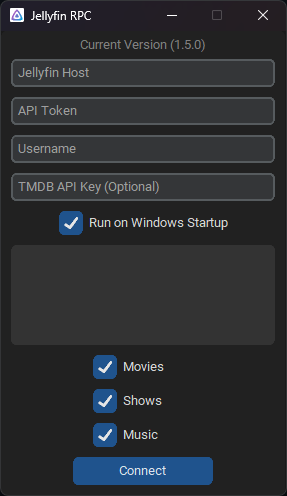
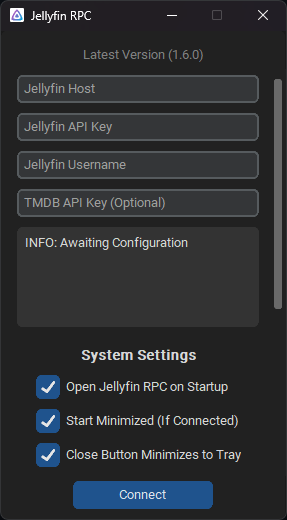
added automatic migration for INI config

diff --git a/main.py b/main.py
@@ -92,13 +92,13 @@ def set_config(ini_path: str, entries: list[ctk.CTkEntry], checkboxes: list[ctk.
     config.set('DEFAULT', 'JELLYFIN_API_KEY', entries[1].get())
     config.set('DEFAULT', 'JELLYFIN_USERNAME', entries[2].get())
     config.set('DEFAULT', 'TMDB_API_KEY', entries[3].get())
-    config.set('DEFAULT', 'START_MINIMIZED', str(checkboxes[4]._variable.get()))
-    config.set('DEFAULT', 'MINIMIZE_ON_CLOSE', str(checkboxes[5]._variable.get()))
-    config.set('DEFAULT', 'SHOW_WHEN_PAUSED', str(checkboxes[6]._variable.get()))
-    config.set('DEFAULT', 'SHOW_SERVER_NAME', str(checkboxes[7]._variable.get()))
-    config.set('DEFAULT', 'SHOW_JELLYFIN_ICON', str(checkboxes[8]._variable.get()))
+    config.set('DEFAULT', 'START_MINIMIZED', str(checkboxes[3]._variable.get()))
+    config.set('DEFAULT', 'MINIMIZE_ON_CLOSE', str(checkboxes[4]._variable.get()))
+    config.set('DEFAULT', 'SHOW_WHEN_PAUSED', str(checkboxes[5]._variable.get()))
+    config.set('DEFAULT', 'SHOW_SERVER_NAME', str(checkboxes[6]._variable.get()))
+    config.set('DEFAULT', 'SHOW_JELLYFIN_ICON', str(checkboxes[7]._variable.get()))
 
-    if not config.get('DEFAULT', 'LOG_LEVEL'):
+    if not config.get('DEFAULT', 'LOG_LEVEL', fallback=None):
         config.set('DEFAULT', 'LOG_LEVEL', 'INFO')
 
     media_types = []
@@ -252,15 +252,15 @@ def main():
     main_frame.pack(fill='both', expand=True)
     font = ctk.CTkFont(family='Roboto', size=14, weight='bold')
 
-    ini_file, log_file = 'jellyfin_rpc.ini', 'jellyfin_rpc.log'
+    ini_path, log_path = 'jellyfin_rpc.ini', 'jellyfin_rpc.log'
     bundle_dir = getattr(sys, '_MEIPASS', os.path.abspath(os.path.dirname(__file__)))
-    ini_path = os.path.abspath(os.path.join(bundle_dir, ini_file))
-    png_path = os.path.abspath(os.path.join(bundle_dir, 'icon.png'))
-    ico_path = os.path.abspath(os.path.join(bundle_dir, 'icon.ico'))
+    ini_bundle_path = os.path.abspath(os.path.join(bundle_dir, ini_path))
+    png_bundle_path = os.path.abspath(os.path.join(bundle_dir, 'icon.png'))
+    ico_bundle_path = os.path.abspath(os.path.join(bundle_dir, 'icon.ico'))
     os.chdir(os.path.dirname(get_executable_path()))
 
     if not os.path.isfile(ini_path):
-        shutil.copyfile(ini_path, ini_file)
+        shutil.copyfile(ini_bundle_path, ini_path)
 
     config = jellyfin_rpc.get_config(ini_path)
     jf_host = config.get('JELLYFIN_HOST')
@@ -326,7 +326,7 @@ def main():
     log_queue = multiprocessing.Queue()
     logger.setLevel(config['LOG_LEVEL'])
     formatter = logging.Formatter('%(asctime)s %(levelname)s %(name)s %(message)s')
-    file_hdlr = logging.FileHandler(log_file, encoding='utf-8')
+    file_hdlr = logging.FileHandler(log_path, encoding='utf-8')
     file_hdlr.setFormatter(formatter)
     stream_hdlr = logging.StreamHandler(sys.stdout)
     stream_hdlr.setFormatter(formatter)
@@ -341,7 +341,6 @@ def main():
     label2 = ctk.CTkLabel(master=checkbox_container1, text='System Settings', font=font)
     label2.pack(pady=(5, 0), padx=10)
 
-    checkbox4 = None
     if platform.system() == 'Windows':
         checkbox4_var = ctk.IntVar(value=int(get_startup_status()))
         checkbox4 = ctk.CTkCheckBox(
@@ -424,7 +423,6 @@ def main():
         checkbox1,
         checkbox2,
         checkbox3,
-        checkbox4,
         checkbox5,
         checkbox6,
         checkbox7,
@@ -444,7 +442,7 @@ def main():
     else:
         icon = pystray.Icon(
             'jellyfin-rpc',
-            Image.open(png_path),
+            Image.open(png_bundle_path),
             'Jellyfin RPC',
             menu=pystray.Menu(
                 pystray.MenuItem(lambda _: button_text, lambda: gui_queue.put('CONNECT')),
@@ -489,7 +487,7 @@ def main():
     poll_gui_queue()
 
     if platform.system() == 'Windows':
-        root.iconbitmap(ico_path)
+        root.iconbitmap(ico_bundle_path)
     root.resizable(False, False)
     if minimize_on_close:
         root.protocol('WM_DELETE_WINDOW', root.withdraw)

diff --git a/jellyfin_rpc.py b/jellyfin_rpc.py
@@ -26,6 +26,12 @@ logger = logging.getLogger('RPC')
 def get_config(ini_path: str) -> SectionProxy:
     config = ConfigParser()
     config.read(ini_path)
+    if config.get('DEFAULT', 'API_TOKEN', fallback=None):
+        jf_api_key = config.get('DEFAULT', 'API_TOKEN')
+        config.set('DEFAULT', 'JELLYFIN_API_KEY', jf_api_key)
+    if config.get('DEFAULT', 'USERNAME', fallback=None):
+        jf_username = config.get('DEFAULT', 'USERNAME')
+        config.set('DEFAULT', 'JELLYFIN_USERNAME', jf_username)
     return config['DEFAULT']
 
 
